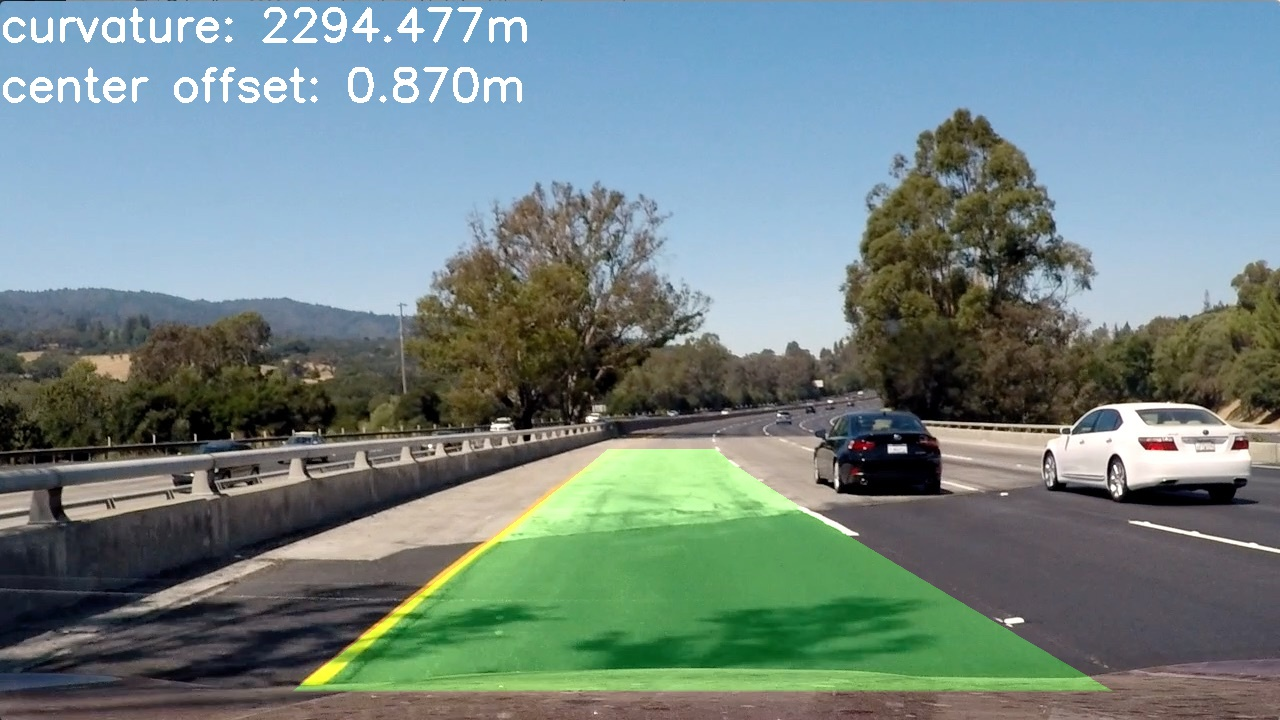
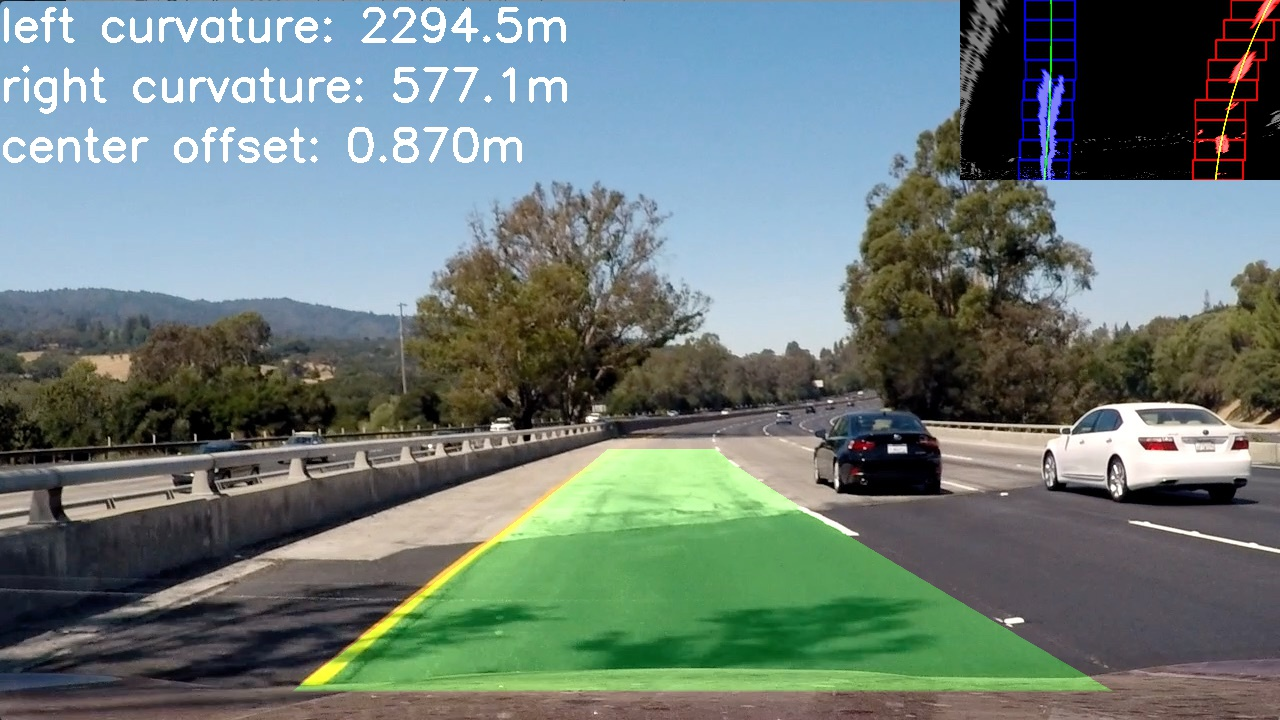
Improve image output

Changed region(s): [[0.75, 0.0, 1.0, 0.275], [0.0, 0.0917, 0.4375, 0.2444], [0.0, 0.0, 0.4688, 0.0611]]

diff --git a/lanelines/pipeline.py b/lanelines/pipeline.py
@@ -1,3 +1,5 @@
+import cv2
+import numpy as np
 from lanelines.binarizer import Binarizer
 from lanelines.camera import Camera
 from lanelines.detector import Detector
@@ -8,10 +10,49 @@ binarizer = Binarizer()
 detector = Detector(camera)
 
 
-def process_image(image):
+def draw_lines(warped_image, original_image, line_left, line_right):
+    warp_zero = np.zeros_like(warped_image).astype(np.uint8)
+    color_warp = np.dstack((warp_zero, warp_zero, warp_zero))
+
+    # Recast the x and y points into usable format for cv2.fillPoly()
+    pts_left = np.array([np.transpose(np.vstack([line_left.fit_x, line_left.fit_y]))])
+    pts_right = np.array([np.flipud(np.transpose(np.vstack([line_right.fit_x, line_right.fit_y])))])
+    pts = np.hstack((pts_left, pts_right))
+
+    # Draw the lane onto the warped blank image
+    cv2.fillPoly(color_warp, np.int_([pts]), (0, 255, 0))
+    # Warp the blank back to original image space using inverse perspective matrix (Minv)
+    newwarp = camera.to_perspective(color_warp)
+    # Combine the result with the original image
+    return cv2.addWeighted(original_image, 1, newwarp, 0.3, 0)
+
+
+def draw_info(image, line_left, line_right, offset):
+    cv2.putText(image, "left curvature: %0.1fm" % line_left.radius_of_curvature, (0, 40),
+                cv2.FONT_HERSHEY_SIMPLEX, 1.5, (255, 255, 255), 3)
+    cv2.putText(image, "right curvature: %0.1fm" % line_right.radius_of_curvature, (0, 100),
+                cv2.FONT_HERSHEY_SIMPLEX, 1.5, (255, 255, 255), 3)
+    cv2.putText(image, "center offset: %0.3fm" % offset, (0, 160), cv2.FONT_HERSHEY_SIMPLEX, 1.5,
+                (255, 255, 255), 3)
+
+
+def draw_top_down(image, top_down, lines_image, w=320, h=180):
+    top_down_resized = cv2.resize(top_down, (w, h))
+    lines_resized = cv2.resize(lines_image, (w, h))
+    top_down_color = np.uint8(np.dstack((top_down_resized, top_down_resized, top_down_resized)) * 255)
+    image[0:h, image.shape[1]-w:] = cv2.addWeighted(top_down_color, 0.5, lines_resized, 1, 0)
+
+
+def process_image(image, display_top_down=True):
     undistorted = camera.undistort(image)
     binarized = binarizer.binarize(undistorted)
     top_down = camera.to_top_down(binarized)
-    lines_image, line_left, line_right, offset, lines_original = detector.detect(image, top_down)
+    lines_image, line_left, line_right, offset = detector.detect(image, top_down)
+
+    lines_original = draw_lines(top_down, image, line_left, line_right)
+    draw_info(lines_original, line_left, line_right, offset)
+    if display_top_down:
+        draw_top_down(lines_original, top_down, lines_image)
+
     return lines_image, line_left, line_right, offset, lines_original, top_down
 

diff --git a/lanelines/detector.py b/lanelines/detector.py
@@ -26,38 +26,14 @@ class Detector:
         self.draw_lines(out_image, line_right, channel=2)
 
         offset = self.center_offset(image, line_left, line_right)
-        lines_original = self.draw_lines_original(top_down, image, line_left, line_right)
-        self.draw_info(lines_original, line_left, line_right, offset)
-
-        return out_image, line_left, line_right, offset, lines_original
+        return out_image, line_left, line_right, offset
 
     def center_offset(self, image, line_left, line_right):
         return (np.mean([line_left.fit_x[0], line_right.fit_x[0]]) - image.shape[1]/2) * line_left.meters_per_pixels[0]
 
-    def draw_info(self, lines_original, line_left, line_right, offset):
-        cv2.putText(lines_original, "curvature: %0.3fm" % line_left.radius_of_curvature, (0, 40), cv2.FONT_HERSHEY_SIMPLEX, 1.5, (255, 255, 255), 3)
-        # cv2.putText(lines_original, "right curvature: %0.1fm" % line_right.radius_of_curvature, (0, 100), cv2.FONT_HERSHEY_SIMPLEX, 1.5, (255, 255, 255), 3)
-        cv2.putText(lines_original, "center offset: %0.3fm" % offset, (0, 100), cv2.FONT_HERSHEY_SIMPLEX, 1.5, (255, 255, 255), 3)
-
     def draw_lines(self, image, line, channel=0):
         image[:, :, channel] = line.image
         cv2.polylines(image, np.int32([np.vstack((line.fit_x, line.fit_y)).transpose()]), False, (0, 255, 255), 5)
-
-    def draw_lines_original(self, warped_image, original_image, line_left, line_right):
-        warp_zero = np.zeros_like(warped_image).astype(np.uint8)
-        color_warp = np.dstack((warp_zero, warp_zero, warp_zero))
-
-        # Recast the x and y points into usable format for cv2.fillPoly()
-        pts_left = np.array([np.transpose(np.vstack([line_left.fit_x, line_left.fit_y]))])
-        pts_right = np.array([np.flipud(np.transpose(np.vstack([line_right.fit_x, line_right.fit_y])))])
-        pts = np.hstack((pts_left, pts_right))
-
-        # Draw the lane onto the warped blank image
-        cv2.fillPoly(color_warp, np.int_([pts]), (0, 255, 0))
-        # Warp the blank back to original image space using inverse perspective matrix (Minv)
-        newwarp = self.camera.to_perspective(color_warp)
-        # Combine the result with the original image
-        return cv2.addWeighted(original_image, 1, newwarp, 0.3, 0)
 
     def find_line(self, image, x, nwindows=9, draw_window=True, line=None):
         """Find lane line given a binarized warped image and a start position"""

diff --git a/lanelines/process.py b/lanelines/process.py
@@ -85,7 +85,7 @@ def detect_lane_lines(detector):
         cv2.imwrite("../output_images/" + image_name + "_lines_perspective.jpg", lines_original)
         print(line_left.radius_of_curvature, line_right.radius_of_curvature, offset)
         if i == 0:
-            lines_image, _, _, _, _ = detector.detect(image, top_down, previous_line_left=line_left,
+            lines_image, _, _, _ = detector.detect(image, top_down, previous_line_left=line_left,
                                                                  previous_line_right=line_right)
             cv2.imwrite("../output_images/" + image_name + "_lines_previous.jpg", lines_image)
 

diff --git a/lanelines/process_video.py b/lanelines/process_video.py
@@ -14,8 +14,7 @@ def process_video(filename):
     white_clip.write_videofile(white_output, audio=False)
 
 
-def execute():
-    process_video('project_video')
-
 if __name__ == '__main__':
-    execute()
+    process_video('project_video')
+    process_video('challenge_video')
+    process_video('harder_challenge_video')
